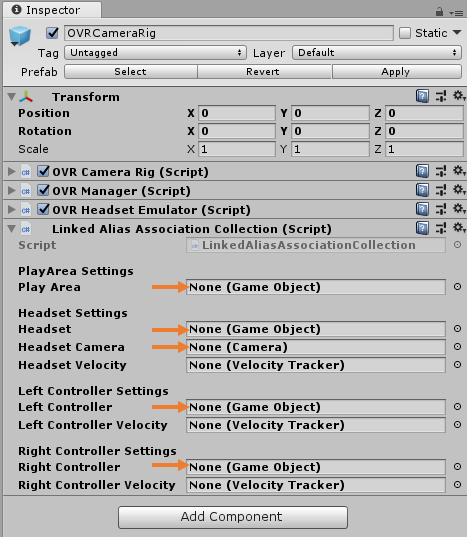
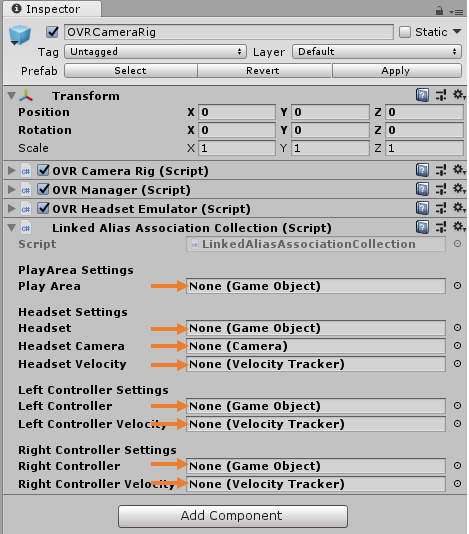
added VelocityEstimator to the explanation and updated images

diff --git a/Documentation/HowToGuides/Basics/AddingTheOculusOVRCameraRig/README.md b/Documentation/HowToGuides/Basics/AddingTheOculusOVRCameraRig/README.md
@@ -80,11 +80,25 @@ To use `OVRCameraRig`  with VRTK4, a script component needs to be added to the r
 
 ### Step 5
 
+For some functionality, tracked like the HMD and controllers items need a VelocityEstimator applied to them. In the OVRCameraRig, these items are the `CenterEyeAnchor` (which always has the HMD pose) and the hand controllers `LeftHandAnchor` and`RightHandAnchor`.
+
+* Find the `VelocityEstimator` script in `VRTK.Unity.Core -> Scripts -> Tracking -> Velocity`
+
+* In the Hierarchy, open `OVRCameraRig -> Tracking`
+
+* Drag the `VelocityEstimator` script on each of the following GameObjects: `CenterEyeAnchor`, `LeftHandAnchor` and `RightHandAnchor`
+
+  ![Apply VelocityEstimator script](assets/images/DragVelocityEstimator.PNG)
+
+  
+
+### Step 6
+
 The `Linked Alias Association Collection (Script)` component needs to be configured by referencing the right game objects.
 
 * Select the `OVRCameraRig` in the Hierarchy window.
 
-* In the Inspector, find its `Linked Alias Association Collection (Script)`  component. In here several Game Objects need to be specified.
+* In the Inspector, find its `Linked Alias Association Collection (Script)`  component. In here all empty fields need to be filled with the right Game Objects.
   
 
   ![LinkedAliasAssociationCollection component of OVRCameraRig](assets/images/LinkedAliasAssociationCollectionComponent.PNG)
@@ -92,9 +106,9 @@ The `Linked Alias Association Collection (Script)` component needs to be configu
 * In the Hierarchy window, open the `OVRCameraRig -> TrackingSpace`. Drag the following GameObjects from there to the specified fields in `Linked Alias Association Collection (Script)`
 
   * `TrackingSpace` to `Play Area`
-  * `CenterEyeAnchor` to `Headset` and `Headset Camera`
-  * `LeftHandAnchor` to `Left Controller`
-  * `RightHandAnchor` to `Right Controller`
+  * `CenterEyeAnchor` to `Headset` ,`Headset Camera` and `Headset Velocity`
+  * `LeftHandAnchor` to `Left Controller` and `Left Controller Velocity`
+  * `RightHandAnchor` to `Right Controller `and `Right Controller Velocity`
 
   ![Component setup](assets/images/LinkedAliasAssociationCollectionSetup.PNG)
 
